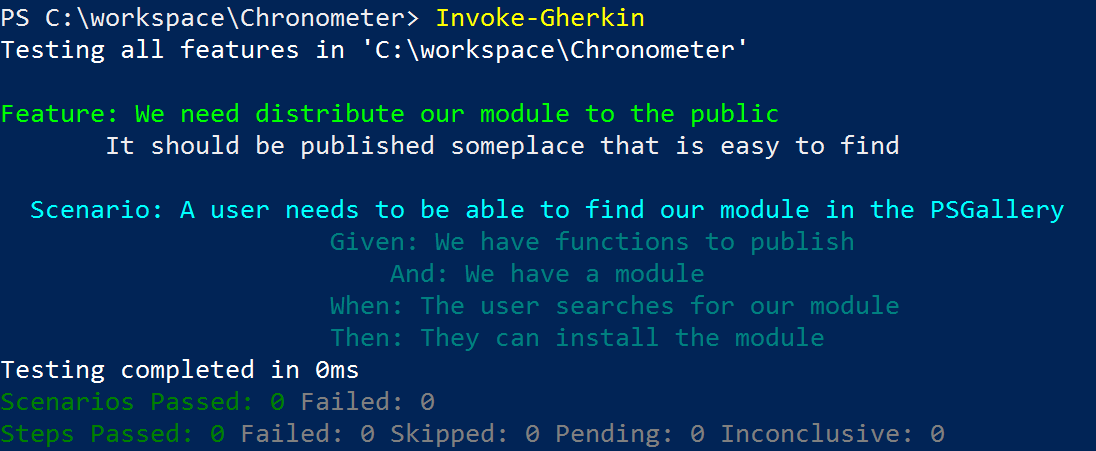
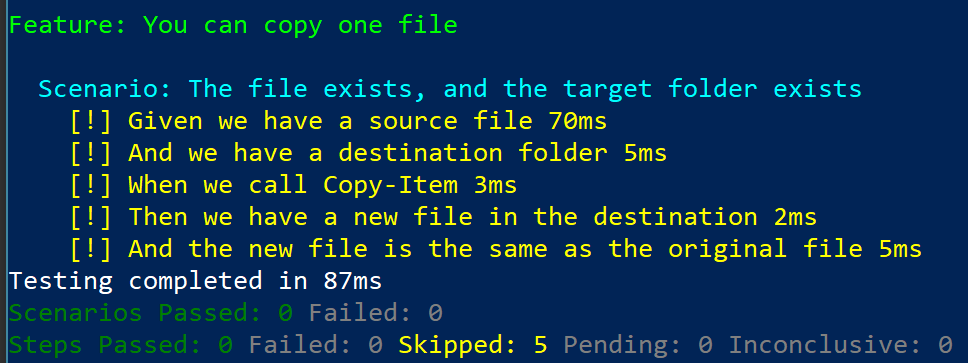
Publish post on Gherkin

Changed region(s): [[0.0, 0.0, 0.9917, 1.0]]

diff --git a/_posts/2017-03-17-Powershell-Gherkin-specification-validation.md b/_posts/2017-03-17-Powershell-Gherkin-specification-validation.md
@@ -5,9 +5,15 @@ date: 2017-03-17
 tags: [PowerShell, DSL, Gherkin, Pester, Advanced]
 ---
 
-Pester has a interesting secret feature that we need to talk about. It supports Gherkin-style feature specifications. I had no idea this was even a thing until I was looking at one of Joel Bennett's modules and saw something I had not seen before. 
+Pester has a interesting secret feature that we need to talk about. It supports Gherkin-style feature specifications. I had no idea this was even a thing until I was looking at one of Joel Bennett's modules and saw something I had not seen before.
 
 This feature allows you to define your features and specifications in a simple business readable syntax. Then you crate a validation script that gets executed with that specification. It will give you pass/fail results on each item like Pester. I think this is awesome and more people need to know about it. I am not exactly sure when this feature was introduced, so you may need to update Pester to get it.
+
+This is the first post in a 3 part series on Gherkin.
+
+* Part 1: Basic Gherkin introduction (This post)
+* Part 2: [Advanced Gherkin Features](2017-04-30-Powershell-Gherkin-advanced-features)
+* Part 3: Working with Gherkin (Planned but not posted)
 
 # Index
 
@@ -23,21 +29,22 @@ Gherkin is the specific business readable Domain Specific Language used to creat
 * [The Truth about BDD](https://sites.google.com/site/unclebobconsultingllc/the-truth-about-bdd)
 * [Writing Great Specifications](https://www.manning.com/books/writing-great-specifications)
 
-Even though I don't know about its origins, I can still show you how it works in Pester.
+Even though I don't know about its origins, I can still show you how it works in Pester/Gherkin.
 
 # Our first specification
-We need to start by creating a specification. These plain text files need to be saved with a `.feature` extension for them to get automatically processed. Here is a simple one we can add to a module.
 
-    Feature: We need to distribute our module to the public
-        It should be published someplace that is easy to find
+We need to start by creating a specification. These plain text files need to be saved with a `.feature` extension for them to get automatically processed. 
 
-      Scenario: A user needs to be able to find our module in the PSGallery
-        Given We have functions to publish
-          And We have a module
-        When The user searches for our module
-        Then They can install the module
+    Feature: You can copy one file
 
-Save this as `.\distribution.feature` and now we have a Gherkin-style specification. I am going to save this into a `Spec` folder inside my already existing [Chronometer](https://kevinmarquette.github.io/2017-02-05-Powershell-Chronometer-line-by-line-script-execution-times/) module.
+    Scenario: The file exists, and the target folder exists
+        Given we have a source file
+        And we have a destination folder
+        When we call Copy-Item
+        Then we have a new file in the destination
+        And the new file is the same as the original file
+
+Save this as `.\copyfile.feature` and now we have a Gherkin-style specification. If this was part of a module, I would save it into a spec folder.
 
 ## Invoke-Gherkin
 
@@ -48,59 +55,55 @@ Now we need to execute `Invoke-Gherkin` like we would `Invoke-Pester`. Here is t
 Because those colors can be hard to read, here is the raw text.
 
     PS > Invoke-Gherkin
-    Testing all features in 'C:\workspace\Chronometer'
+    Testing all features in '.\spec'
 
-    Feature: We need to distribute our module to the public
-        It should be published someplace that is easy to find
+    Feature: You can copy one file
 
-      Scenario: A user needs to be able to find our module in the PSGallery
-            Given We have functions to publish
-                And We have a module
-            When The user searches for our module
-            Then They can install the module
-    Testing completed in 0ms
+    Scenario: The file exists, and the target folder exists
+        [!] Given we have a source file 15ms
+        [!] And we have a destination folder 2ms
+        [!] When we call Copy-Item 3ms
+        [!] Then we have a new file in the destination 8ms
+        [!] And the new file is the same as the original file 5ms
+
+    Testing completed in 483ms
     Scenarios Passed: 0 Failed: 0
-    Steps Passed: 0 Failed: 0 Skipped: 0 Pending: 0 Inconclusive: 0
+    Steps Passed: 0 Failed: 0 Skipped: 5 Pending: 0 Inconclusive: 0
 
-That will enumerate all the feature specifications we have. And run any corresponding tests. We just did not have any tests for it to run.
+That will enumerate all the feature specifications we have. And run any corresponding tests. We have not created any tests yet so none of them passed.
 
 # Adding test steps
 
-The set of tests for a Gherkin feature are called steps. Because of that they need saved in a file with a name ending in `.Steps.ps1`. Now we can start adding some steps into a file.
+The set of tests for a Gherkin feature are called steps. Because of that they need saved in a file with a name ending in `.Steps.ps1`. Add these steps to a new file and save it as `CopyItem.Steps.ps1`.
 
-    Given 'We have functions to publish' {
-        "$psscriptroot\..\chronometer\public\*.ps1" | Should Exist
+    Given 'we have a source file' {
+        mkdir source -ErrorAction SilentlyContinue
+        Set-Content '.\source\something.txt' -Value 'Data'
+        '.\source\something.txt' | Should Exist
     }
-    And 'We have a module' {
-        "$psscriptroot\..\chronometer\chronometer.psd1" | Should Exist
-        "$psscriptroot\..\chronometer\chronometer.psm1" | Should Exist
+
+    Given 'we have a destination folder' {
+        mkdir target -ErrorAction SilentlyContinue
+        '.\target' | Should Exist
     }
-    When 'The user searches for our module' {
-        Find-Module chronometer | Should Not BeNullOrEmpty
+
+    When 'we call Copy-Item' {
+        { Copy-Item .\source\something.txt .\target } | Should Not Throw
     }
-    Then 'They can install the module' {
-        { Install-Module chronometer -Scope CurrentUser -WhatIf } | Should Not Throw
+
+    Then 'we have a new file in the destination' {
+        '.\target\something.txt' | Should Exist
+    }
+
+    Then 'the new file is the same as the original file' {
+        $primary = Get-FileHash .\target\something.txt
+        $secondary = Get-FileHash .\source\something.txt
+        $secondary.Hash | Should Be $primary.Hash
     }
  
-You will notice that I created a Pester-style test for several lines in the specification. Each one starts with a keyword of `Given`, `And`, `When` or`Then`. (`But` is also a valid keyword). The description is pulled directly from the specification. The `Invoke-Gherkin` uses that description to make that match.
+You will notice that I created a Pester-style test for several lines in the specification. Each one starts with a keyword of `Given`, `And`, `When` or`Then`. (`But` is also a valid keyword). The description is pulled directly from the specification. The `Invoke-Gherkin` uses that description to make the match.
 
-This is what my module looks like now that I added both the feature specification and the step tests.
-
-    Chronometer
-    ├───Spec
-    │       distribution.feature
-    │       distribution.Steps.ps1
-    │
-    ├───Chronometer
-    │   │   chronometer.psd1
-    │   │   Chronometer.psm1
-    │   │
-    │   └───Public
-    │           Format-Chronometer.ps1
-    │           Get-Chronometer.ps1
-    |
-    └───Tests
-
+I also want to point out that the step keywords (`Given`, `And`, `When`, `Then`, `But`) are interchangeable within the code. Use `Given` to set up for or prep for an action, `When` for the actions, and `Then` for validation. The `And` and `But` keywords are there to make the specification flow better and will match to any `Given`,`When` or `Then` test.
 
 ## Running the test steps
 
@@ -109,22 +112,21 @@ Now when we run the `Invoke-Gherkin`, we get this output.
 ![Gherkin feature passing](/img/gherkin-pass.png)
 
     PS> Invoke-Gherkin
-    Testing all features in 'C:\workspace\Chronometer'
+    Testing all features in '.\spec'
 
-    Feature: We need to distribute our module to the public
-           It should be published someplace that is easy to find
+    Feature: You can copy one file
 
-      Scenario: A user needs to be able to find our module in the PSGallery
-        [+] Given We have functions to publish 4ms
-        [+] And We have a module 3ms
-        [+] When The user searches for our module 3.12s
-    What if: Performing the operation "Install-Module" on target "Version '0.5.3.51' of module 'chronometer'".
-        [+] Then They can install the module 1.84s
-    Testing completed in 4.97s
+    Scenario: The file exists, and the target folder exists
+        [+] Given we have a source file 15ms
+        [+] And we have a destination folder 2ms
+        [+] When we call Copy-Item 3ms
+        [+] Then we have a new file in the destination 8ms
+        [+] And the new file is the same as the original file 5ms
+    Testing completed in 35ms
     Scenarios Passed: 0 Failed: 0
-    Steps Passed: 4 Failed: 0 Skipped: 0 Pending: 0 Inconclusive: 0
+    Steps Passed: 5 Failed: 0 Skipped: 0 Pending: 0 Inconclusive: 0
 
-Here we see all the tests passing because I already have all these features implemented. If I added this to a new module, they would fail until that feature was put in place.
+Here we see all the tests passing because we have all these features implemented.
 
 ## Other details
 
@@ -134,7 +136,12 @@ You also don't have to have a 1 to 1 mapping between step files and feature file
 
 Different specifications can have lines map to the same test as long as the text is an exact match. This is good when you have scenarios that have the same dependencies or a lot of overlapping steps.
 
-
 # Why not use Invoke-Pester?
 
-Pester is good at a lot of things but it is built around one school of thought. Gherkin approaches the problem from a different prospective. This is just another tool for us to use. I feel like I have only scratched the surface on this but I wanted to shed some light on this feature that is fairly unknown.
+Pester is good at a lot of things but it is built around one school of thought. Gherkin approaches the problem from a different prospective. This is just another tool for us to use. 
+
+# Whats next?
+
+We just looked at the most basic of examples. We have only scratched the surface. In the next post on Gherkin, I am going to cover the rest of the features.
+
+* Part 2: [Advanced Gherkin Features](2017-04-30-Powershell-Gherkin-advanced-features)

diff --git a/_posts/2017-04-30-Powershell-Gherkin-advanced-features.md b/_posts/2017-04-30-Powershell-Gherkin-advanced-features.md
@@ -1,33 +1,17 @@
-# notes
+---
+layout: post
+title: "Powershell: Advanced Gherkin Features"
+date: 2017-04-30
+tags: [PowerShell, DSL, Gherkin, Pester, Advanced]
+---
 
-examples
-
-https://github.com/PoshCode/Configuration/tree/master/Specs 
-
-
-I need to explain wildcards in steps, parameterized examples, the way before/after works better, and why g-w-t makes you write better tests
-
-It's worth pointing out there's a Find-GherkinStep you can use to figure out which step definition will match step text ;-)
-
-Some <examples> in my Configuration module.
-https://github.com/PoshCode/Configuration/blob/master/Specs/LocalStoragePath.feature#L40-L49 … 
-It's also regex! E.g. line 43 matches here:
-
-Gherkin has Before/After each Feature/Scenario in steps
-They apply across a whole test run
-Pester Before/After apply to "IT" within context
-
-# Start of post
-
-
-In the last post, I covered the bare basics of how to use Gherkin. I had a conversation with Joel Bennett on twitter about Gherkin and he pointed out some more examples from his Configuration module. Now that I have been playing with them for a few days, I decided it was time to share my findings.
+In the last post, I covered the bare basics of how to use Gherkin. I had a conversation with [Joel Bennett](https://twitter.com/Jaykul) on twitter about Gherkin and he pointed out some more examples from his [Configuration module](https://github.com/PoshCode/Configuration/tree/master/Specs). Now that I have been playing with them for a few days, I decided it was time to share my findings.
 
 This is the 2nd post in a 3 part series on Gherkin where I cover the advanced features. These features are the building blocks that give Gherkin a lot of power.
 
-* Part 1: Basic introduction
-* Part 2: Advanced Features (This post)
+* Part 1: [Basic Gherkin introduction](2017-03-17-Powershell-Gherkin-specification-validation)
+* Part 2: Advanced Gherkin Features (This post)
 * Part 3: Working with Gherkin (Planned but not posted)
-
 
 # Quick review
 
